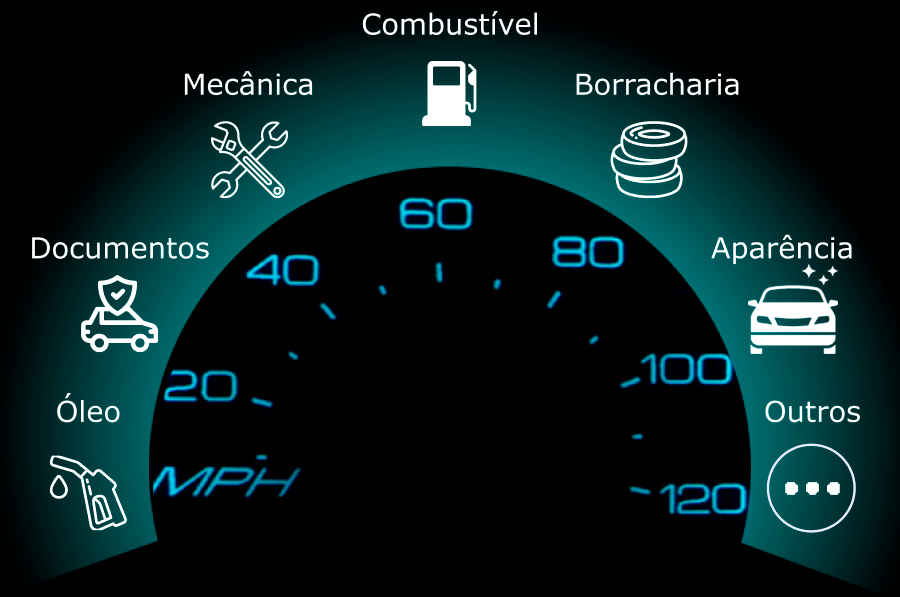
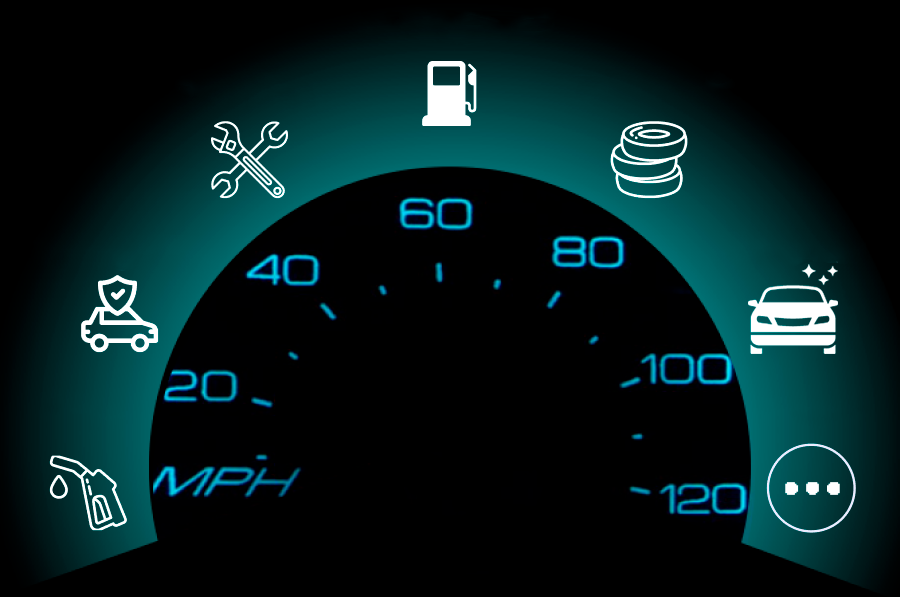
ajuste speedometer
Removido as labels da imagem e criado no codigo para se enquadrar na internacionalização

diff --git a/src/views/screens/expenses/create/SpeedometerModal.tsx b/src/views/screens/expenses/create/SpeedometerModal.tsx
@@ -39,7 +39,7 @@ function SpeedometerModal(props: React.PropsWithChildren): JSX.Element {
                             <Image
                                 resizeMode="contain"
                                 source={require('../../../assets/logoCommodus.png')}
-                                style={{ width: '50%' }}
+                                style={{ width: '40%' }}
 
                             />
                         </TouchableWithoutFeedback>
@@ -49,7 +49,7 @@ function SpeedometerModal(props: React.PropsWithChildren): JSX.Element {
                         style={{ flex: 2, width: '100%' }}
                         resizeMode="contain" source={require('../../../assets/velocimetroIconesNovo.png')}
                     >
-
+                        <Text style={[style.text,{ bottom: height >= 700 ? height * 0.12 : height * 0.08, left: width * 0.065, position: 'absolute' }]}>Óleo</Text>
                         <TouchableWithoutFeedback onPress={() => { //Oleo
                             setVisibleModal(false)
                             navigation.navigate('OilExpense')
@@ -57,6 +57,7 @@ function SpeedometerModal(props: React.PropsWithChildren): JSX.Element {
                             <View style={[style.iconTouch, { bottom: height >= 700 ? height * 0.06 : height * 0.04, left: width * 0.0416 }]} />
                         </TouchableWithoutFeedback>
 
+                        <Text style={[style.text,{ bottom: height >= 700 ? height * 0.22 : height * 0.18, left: width * 0.06, position: 'absolute' }]}>Documento</Text>
                         <TouchableWithoutFeedback onPress={() => {  //Documento
                             setVisibleModal(!visibleModal)
                             navigation.navigate('DocumentationExpense')
@@ -64,6 +65,7 @@ function SpeedometerModal(props: React.PropsWithChildren): JSX.Element {
                             <View style={[style.iconTouch, { bottom: height >= 700 ? height * 0.16 : height * 0.15, left: width * 0.075 }]} />
                         </TouchableWithoutFeedback>
 
+                        <Text style={[style.text,{ bottom: height >= 700 ? height * 0.305 : height * 0.28, left: width * 0.21, position: 'absolute' }]}>Mecânica</Text>
                         <TouchableWithoutFeedback onPress={() => {  //Outros
                             setVisibleModal(false)
                             navigation.navigate('MechanicExpense')
@@ -72,6 +74,7 @@ function SpeedometerModal(props: React.PropsWithChildren): JSX.Element {
                             <View style={[style.iconTouch, { bottom: height * 0.25, left: width * 0.21 }]} />
                         </TouchableWithoutFeedback>
 
+                        <Text style={[style.text,{ bottom: height >= 700 ? height * 0.34 : height * 0.32, left: width * 0.42, position: 'absolute' }]}>Combustível</Text>
                         <TouchableWithoutFeedback onPress={() => {
                             setVisibleModal(false)
                             navigation.navigate('FuelExpense')
@@ -80,6 +83,7 @@ function SpeedometerModal(props: React.PropsWithChildren): JSX.Element {
                             <View style={[style.iconTouch, { bottom: height >= 700 ? height * 0.28 : height * 0.29, left: width * 0.425 }]} />
                         </TouchableWithoutFeedback>
 
+                        <Text style={[style.text,{ bottom: height >= 700 ? height * 0.305 : height * 0.29, right: width * 0.20, position: 'absolute' }]}>Borracharia</Text>
                         <TouchableWithoutFeedback onPress={() => {
                             setVisibleModal(false)
                             navigation.navigate('TyreExpense')
@@ -88,6 +92,7 @@ function SpeedometerModal(props: React.PropsWithChildren): JSX.Element {
                             <View style={[style.iconTouch, { bottom: height * 0.25, right: width * 0.21 }]} />
                         </TouchableWithoutFeedback>
 
+                        <Text style={[style.text,{ bottom: height >= 700 ? height * 0.222 : height * 0.19, right: width * 0.06, position: 'absolute' }]}>Aparência</Text>
                         <TouchableWithoutFeedback onPress={() => {
                             setVisibleModal(false)
                             navigation.navigate('AppearanceExpense')
@@ -95,6 +100,8 @@ function SpeedometerModal(props: React.PropsWithChildren): JSX.Element {
                         }}>
                             <View style={[style.iconTouch, { bottom: height >= 700 ? height * 0.16 : height * 0.15, right: width * 0.06 }]} />
                         </TouchableWithoutFeedback>
+
+                        <Text style={[style.text,{bottom: height >= 700 ? height * 0.122 : height * 0.1, right: width * 0.055, position: 'absolute' }]}>Outros</Text>
                         <TouchableWithoutFeedback onPress={() => {  //Outros
                             setVisibleModal(false)
                             navigation.navigate('OthersExpense')
@@ -132,6 +139,9 @@ const style = StyleSheet.create({
         width: width * 0.16,
         height: width * 0.17,
         position: 'absolute',
+    },
+    text: {
+        color: '#d5d5d5'
     }
 });
 
